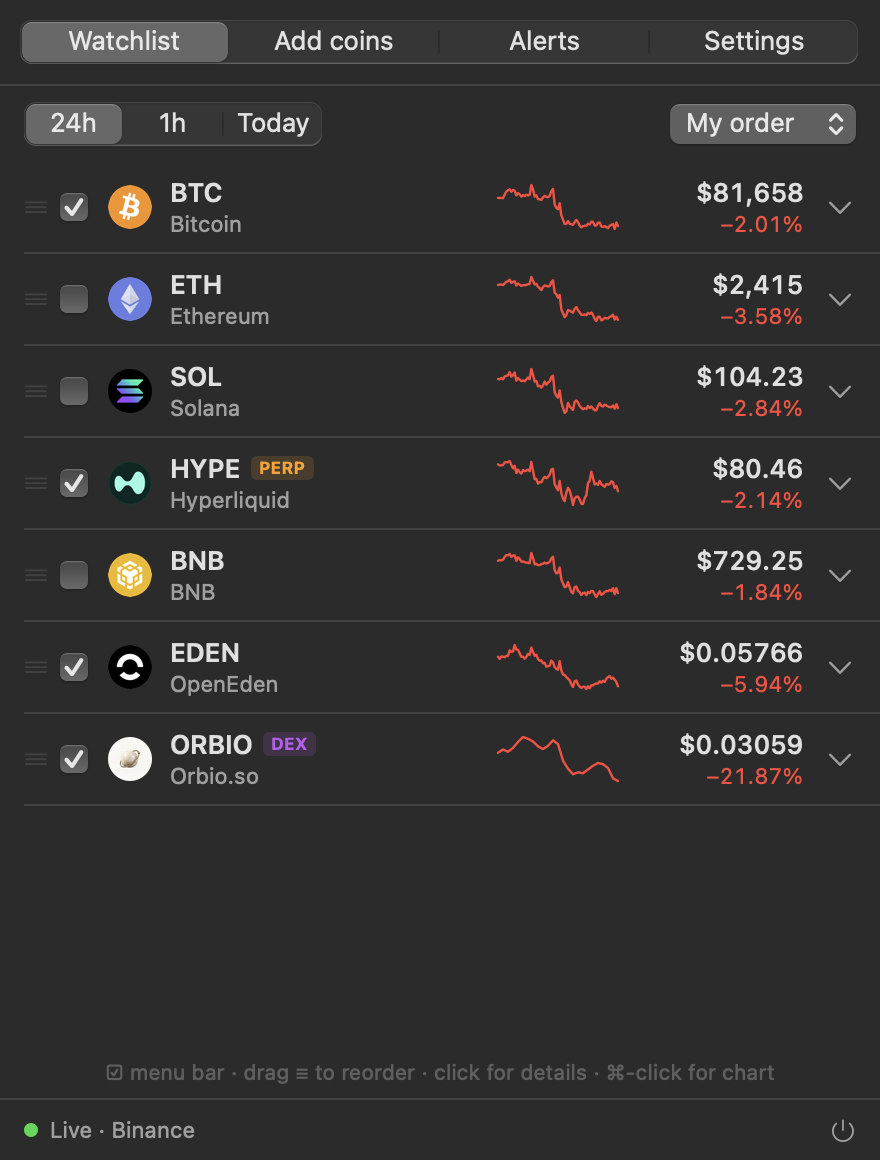
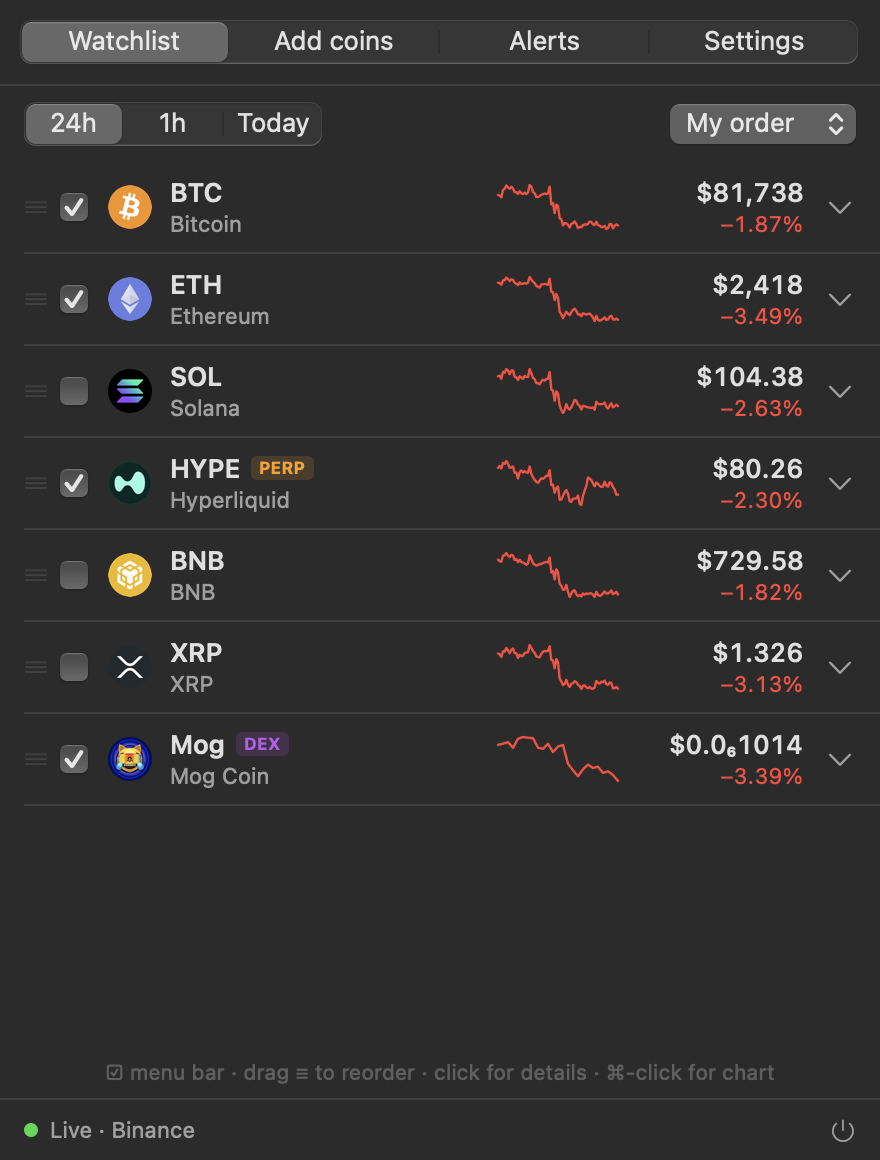
Add MIT license, neutral README screenshots, tiny-price shorthand
- MIT license
- Screenshots use neutral coins (BTC, ETH, SOL, HYPE perp, BNB, XRP, Mog)
- Prices below $0.0001 use crypto shorthand ($0.0₆1014) so long
  decimals don't push the sparkline out of line

diff --git a/Sources/TickBar/Format.swift b/Sources/TickBar/Format.swift
@@ -30,7 +30,17 @@ enum Fmt {
 
     static func price(_ p: Double, _ cur: DisplayCurrency, compact: Bool = false, decimals: Int? = nil) -> String {
         if let decimals { return cur.symbol + number(p, digits: decimals) }
+        if p > 0 && p < 1e-4 { return cur.symbol + tiny(p) }
         return cur.symbol + (compact ? short(p) : number(p, digits: digits(for: p)))
+    }
+
+    /// Sub-0.0001 prices in the usual crypto shorthand: 0.0000001014 → 0.0₆1014.
+    static func tiny(_ p: Double) -> String {
+        var zeros = Int(-floor(log10(p))) - 1
+        var sig = Int((p * pow(10, Double(zeros + 4))).rounded())
+        if sig >= 10_000 { sig /= 10; zeros -= 1 } // rounding carried into another digit
+        let sub = String(String(zeros).compactMap { "₀₁₂₃₄₅₆₇₈₉".map { $0 }[Int(String($0))!] })
+        return "0.0\(sub)\(sig)"
     }
 
     static func short(_ v: Double) -> String {

diff --git a/README.md b/README.md
@@ -92,3 +92,7 @@ scripts/build_app.sh
 | SGD / EUR conversion | open.er-api.com, refreshed hourly |
 
 TickBar is not affiliated with Binance, DexScreener or GeckoTerminal. Prices are for information only and not financial advice.
+
+## License
+
+[MIT](LICENSE). Free to use, modify and share.
